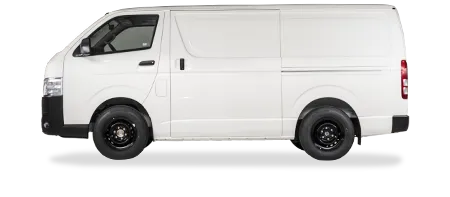
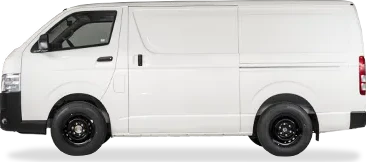
Hiace SLWB gambar betul + kereta jalur model sebaris
- Pengawal: buang gambar warna yang menunjuk folder model lain (Toyota MY guna gambar Hiace panel van untuk SLWB)
- Gambar model dari explore thumbnail bila tiada (Hiace SLWB, Alphard, Vellfire, GR, EV)
- Potong ruang lutsinar semua gambar model; jalur model bergerak sejajar bawah

diff --git a/data.js b/data.js
@@ -1,2 +1,2 @@
 // Dijana oleh scripts/update.mjs — jangan sunting tangan
-window.TOYOTA = {"updatedAt":"2026-11-24","checkedAt":"2026-11-24","source":"https://www.toyota.com.my/en/price-and-model-tools/price-list.html","rebateSource":"https://www.toyota.com.my/en/promotions/monthly-promo.html","rebateMonth":"November 2026","models":[{"id":"vios","name":"Vios","type":"Sedan","url":"https://www.toyota.com.my/en/models/vios.html","cut":"img/cut/vios.webp","grades":[{"name":"Vios 1.5E AT","fuel":"Petrol","price":90600,"rebate":12000,"cols":[{"n":"Spicy Scarlet SE","hex":"#990300","p":0,"img":"img/col/4b4a9737cf.webp"},{"n":"Silver Metallic","hex":"#9da2a4","p":0,"img":"img/col/b7147704f3.webp"},{"n":"Nebula Blue Metallic","hex":"#203079","p":0,"img":"img/col/0c283b9e86.webp"},{"n":"Attitude Black Mica","hex":"#030507","p":0,"img":"img/col/1e3495e214.webp"},{"n":"Platinum White Pearl","hex":"#fcfcfc","p":400,"img":"img/col/bfc42479ec.webp"}]},{"name":"Vios 1.5G AT","fuel":"Petrol","price":96600,"rebate":12000,"cols":[{"n":"Spicy Scarlet SE","hex":"#990300","p":0,"img":"img/col/4b4a9737cf.webp"},{"n":"Silver Metallic","hex":"#9da2a4","p":0,"img":"img/col/b7147704f3.webp"},{"n":"Nebula Blue Metallic","hex":"#203079","p":0,"img":"img/col/0c283b9e86.webp"},{"n":"Attitude Black Mica","hex":"#030507","p":0,"img":"img/col/1e3495e214.webp"},{"n":"Platinum White Pearl","hex":"#fcfcfc","p":400,"img":"img/col/bfc42479ec.webp"}]},{"name":"Vios 1.5 HEV AT","fuel":"HEV","price":103900,"rebate":14000,"cols":[{"n":"Celestite Grey Metallic","hex":"#4c5662","p":0,"img":"img/col/2bb7e400b5.webp"},{"n":"Platinum White Pearl","hex":"#fcfcfc","p":400,"img":"img/col/a50575775a.webp"},{"n":"Spicy Scarlet SE","hex":"#990300","p":0,"img":"img/col/0866fbec1c.webp"},{"n":"Attitude Black","hex":"#030507","p":0,"img":"img/col/4fa600eb33.webp"},{"n":"Silver Metallic","hex":"#9da2a4","p":0,"img":"img/col/40bbe3cd9d.webp"}]},{"name":"Vios 1.5 HEV GR Sport","fuel":"HEV","price":109900,"rebate":12000,"cols":[{"n":"Platinum White Pearl","hex":"#fcfcfc","p":400,"img":"img/col/54372c2760.webp"},{"n":"Spicy Scarlet SE","hex":"#990300","p":0,"img":"img/col/0699dcca2c.webp"},{"n":"Attitude Black","hex":"#030507","p":0,"img":"img/col/95a0ce70e0.webp"},{"n":"2-tone Platinum White Pearl","hex":"#f2f2ee","p":0,"img":"img/col/4cc5cbb57a.webp"},{"n":"2-Tone Spicy Scarlet SE","hex":"#a4120f","p":1500,"img":"img/col/46aabf18aa.webp"}]}]},{"id":"yaris","name":"Yaris","type":"Hatchback","url":"https://www.toyota.com.my/en/models/yaris.html","cut":"img/cut/yaris.webp","grades":[{"name":"Yaris 1.5E AT","fuel":"Petrol","price":90400,"rebate":0,"cols":[{"n":"2-tone Red Mica Metallic","hex":"#7b0010","p":1500,"img":"img/col/66c8577a24.webp"},{"n":"2-tone Platinum White Pearl","hex":"#fcfcfc","p":1800,"img":"img/col/4d18b7256f.webp"},{"n":"Red Mica Metallic","hex":"#7b0010","p":0,"img":"img/col/9729826b19.webp"},{"n":"Silver Metallic","hex":"#9da2a4","p":0,"img":"img/col/b90aa7a7d1.webp"},{"n":"Platinum White Pearl","hex":"#fcfcfc","p":0,"img":"img/col/ac3be6d11a.webp"}]},{"name":"Yaris 1.5G AT","fuel":"Petrol","price":96400,"rebate":0,"cols":[{"n":"2-tone Red Mica Metallic","hex":"#7b0010","p":1500,"img":"img/col/66c8577a24.webp"},{"n":"2-tone Platinum White Pearl","hex":"#fcfcfc","p":1800,"img":"img/col/4d18b7256f.webp"},{"n":"Red Mica Metallic","hex":"#7b0010","p":0,"img":"img/col/9729826b19.webp"},{"n":"Silver Metallic","hex":"#9da2a4","p":0,"img":"img/col/b90aa7a7d1.webp"},{"n":"Platinum White Pearl","hex":"#fcfcfc","p":0,"img":"img/col/ac3be6d11a.webp"}]}]},{"id":"yaris-cross","name":"Yaris Cross","type":"SUV","url":"https://www.toyota.com.my/en/models/yaris-cross-hybrid-electric.html","cut":"img/cut/yaris-cross.webp","grades":[{"name":"Yaris Cross 1.5S","fuel":"Petrol","price":99900,"rebate":3500,"cols":[{"n":"Dark Turquoise","hex":"#091449","p":0,"img":"img/col/bfb4483ed6.webp"},{"n":"Silver Metallic","hex":"#9da2a4","p":0,"img":"img/col/1580b3b50b.webp"},{"n":"Attitude Black","hex":"#030507","p":0,"img":"img/col/e294913737.webp"},{"n":"Spicy Scarlet SE","hex":"#990300","p":0,"img":"img/col/7e94d23eed.webp"},{"n":"Platinum Pearl White","hex":"#fcfcfc","p":400,"img":"img/col/4d84b280a5.webp"}]},{"name":"Yaris Cross 1.5S HEV","fuel":"HEV","price":109900,"rebate":3500,"cols":[{"n":"Dark Turquoise","hex":"#091449","p":0,"img":"img/col/bfb4483ed6.webp"},{"n":"Silver Metallic","hex":"#9da2a4","p":0,"img":"img/col/1580b3b50b.webp"},{"n":"Attitude Black","hex":"#030507","p":0,"img":"img/col/e294913737.webp"},{"n":"Spicy Scarlet SE","hex":"#990300","p":0,"img":"img/col/7e94d23eed.webp"},{"n":"Platinum Pearl White","hex":"#fcfcfc","p":400,"img":"img/col/4d84b280a5.webp"}]}]},{"id":"corolla","name":"Corolla","type":"Sedan","url":"https://www.toyota.com.my/en/models/corolla.html","cut":"img/cut/corolla.webp","grades":[{"name":"Corolla 1.8G","fuel":"Petrol","price":144800,"rebate":18000,"cols":[{"n":"Platinum White Pearl","hex":"#fcfcfc","p":800,"img":"img/col/5c4f0cdb86.webp"},{"n":"Metal Stream Metallic","hex":"#828084","p":0,"img":"img/col/519817aa2d.webp"},{"n":"Attitude Black Mica","hex":"#030507","p":0,"img":"img/col/5622c58e34.webp"},{"n":"Cement Gray Metallic","hex":"#808080","p":0,"img":"img/col/41ef87da90.webp"}]},{"name":"Corolla GR Sport","fuel":"Petrol","price":149800,"rebate":18000,"cols":[{"n":"2-tone Platinum White Pearl","hex":"#fcfcfcd","p":2000,"img":"img/col/9f33b413f5.webp"},{"n":"2-tone Red Mica Metallic","hex":"#7b0010","p":1500,"img":"img/col/b13b3fd4f6.webp"},{"n":"Attitude Black Mica","hex":"#030507","p":0,"img":"img/col/c27060f927.webp"}]}]},{"id":"corolla-cross","name":"Corolla Cross","type":"SUV","url":"https://www.toyota.com.my/en/models/corolla-cross-hybrid-electric.html","cut":"img/cut/corolla-cross.webp","grades":[{"name":"Corolla Cross 1.8V AT","fuel":"Petrol","price":133800,"rebate":13000,"cols":[{"n":"Silver Metallic","hex":"#9da2a4","p":0,"img":"img/col/c2e12495db.webp"},{"n":"Red Mica Metallic","hex":"#7b0010","p":0,"img":"img/col/387aa3bc62.webp"},{"n":"Platinum White Pearl","hex":"#fcfcfc","p":800,"img":"img/col/6db6b41141.webp"},{"n":"Dark Turquoise","hex":"#091449","p":0,"img":"img/col/0ca25237cb.webp"}]},{"name":"Corolla Cross HEV","fuel":"HEV","price":140800,"rebate":13000,"cols":[{"n":"Celestite Grey Metallic","hex":"#4c5662","p":0,"img":"img/col/25d8b36c8e.webp"},{"n":"Silver Metallic","hex":"#9da2a4","p":0,"img":"img/col/a2435030b9.webp"},{"n":"Red Mica Metallic","hex":"#7b0010","p":0,"img":"img/col/0cf5506db1.webp"},{"n":"Platinum White Pearl","hex":"#fcfcfc","p":800,"img":"img/col/ca1aff7c8c.webp"},{"n":"Dark Turquoise","hex":"#091449","p":0,"img":"img/col/80c20e632b.webp"}]},{"name":"Corolla Cross HEV GR Sport","fuel":"HEV","price":148800,"rebate":13000,"cols":[{"n":"2-tone Platinum White Pearl","hex":"#fcfcfc","p":2000,"img":"img/col/d8a5908136.webp"},{"n":"2-tone Dark Turquoise","hex":"#171948","p":1500,"img":"img/col/93e8351c5b.webp"},{"n":"2-tone Red Mica Metallic","hex":"#7b0010","p":1500,"img":"img/col/315dd36c8e.webp"}]}]},{"id":"camry","name":"Camry","type":"Sedan","url":"https://www.toyota.com.my/en/models/camry-hybrid-electric.html","cut":"img/cut/camry.webp","grades":[{"name":"Camry 2.5V AT","fuel":"Petrol","price":221800,"rebate":20000,"cols":[{"n":"Platinum White Pearl","hex":"#fcfcfc","p":800,"img":"img/col/5cde194081.webp"},{"n":"Emotional Red II","hex":"#740001","p":800,"img":"img/col/4b418b5fa0.webp"},{"n":"Cement Gray Metallic","hex":"#808080","p":0,"img":"img/col/34d98b3896.webp"},{"n":"Precious Metal","hex":"#545656","p":0,"img":"img/col/16dbb99437.webp"},{"n":"Attitude Black Mica","hex":"#030507","p":0,"img":"img/col/f5382d19c4.webp"},{"n":"Dark Blue Mica","hex":"#202649","p":0,"img":"img/col/60979581a2.webp"}]},{"name":"Camry 2.5 HEV","fuel":"HEV","price":248800,"rebate":12000,"cols":[{"n":"Platinum White Pearl","hex":"#fcfcfc","p":800,"img":"img/col/d35773af7b.webp"},{"n":"Emotional Red II","hex":"#740001","p":800,"img":"img/col/de23f9276b.webp"},{"n":"Cement Gray Metallic","hex":"#808080","p":0,"img":"img/col/51438deebb.webp"},{"n":"Precious Metal","hex":"#545656","p":0,"img":"img/col/d7c1048fef.webp"},{"n":"Attitude Black Mica","hex":"#030507","p":0,"img":"img/col/a471114a0f.webp"},{"n":"Dark Blue Mica","hex":"#202649","p":0,"img":"img/col/f743075f0b.webp"}]}]},{"id":"veloz","name":"Veloz","type":"MPV","url":"https://www.toyota.com.my/en/models/veloz.html","cut":"img/cut/veloz.webp","grades":[{"name":"Veloz 1.5 AT","fuel":"Petrol","price":95000,"rebate":3000,"cols":[{"n":"Blue Metallic with Black Roof","hex":"#0b0d10","p":1300,"img":"img/col/d256ccb5bc.webp"},{"n":"Silver Metallic with Black Roof","hex":"#9da2a4","p":1300,"img":"img/col/aa7fcf63eb.webp"},{"n":"Metallic Bluish Black","hex":"#000000","p":0,"img":"img/col/2d6d91f538.webp"},{"n":"Red Metallic","hex":"#4f000a","p":0,"img":"img/col/5ec750fa47.webp"},{"n":"White","hex":"#d5d8cf","p":0,"img":"img/col/5c36769894.webp"}]}]},{"id":"zenix","name":"Innova Zenix","type":"MPV","url":"https://www.toyota.com.my/en/models/zenix.html","cut":"img/cut/zenix.webp","grades":[{"name":"Innova Zenix 2.0V","fuel":"Petrol","price":165000,"rebate":10000,"cols":[{"n":"Grey Metallic","hex":"#333538","p":0,"img":"img/col/9b73cab6d5.webp"},{"n":"Platinum White Pearl","hex":"#fcfcfc","p":1000,"img":"img/col/0fca547ef6.webp"},{"n":"Attitude Black Mica","hex":"#030507","p":0,"img":"img/col/4fc27eb91c.webp"},{"n":"Silver Metallic","hex":"#84888c","p":0,"img":"img/col/5b9211c612.webp"}]},{"name":"Innova Zenix 2.0 HEV","fuel":"HEV","price":202000,"rebate":11000,"cols":[{"n":"Platinum White Pearl","hex":"#fcfcfc","p":1000,"img":"img/col/1e8a5b3a26.webp"},{"n":"Grey Metallic","hex":"#333538","p":0,"img":"img/col/d7a676d8b7.webp"},{"n":"Attitude Black Mica","hex":"#030507","p":0,"img":"img/col/a70e950afa.webp"},{"n":"Silver Metallic","hex":"#84888c","p":0,"img":"img/col/54d344cb5e.webp"}]}]},{"id":"fortuner","name":"Fortuner","type":"SUV","url":"https://www.toyota.com.my/en/models/fortuner.html","cut":"img/cut/fortuner.webp","grades":[{"name":"Fortuner 2.4 AT 4WD","fuel":"Diesel","price":195880,"rebate":11000,"cols":[{"n":"Attitude Black Mica","hex":"#030507","p":0,"img":"img/col/d8054f4c2d.webp"},{"n":"Super White II","hex":"#e3e4e0","p":0,"img":"img/col/b18598feec.webp"},{"n":"Silver Metallic","hex":"#9da2a4","p":0,"img":"img/col/3f7a786d72.webp"},{"n":"Medium Silver Metallic","hex":"#6a7376","p":0,"img":"img/col/0cbcbf0729.webp"},{"n":"Phantom Brown Metallic","hex":"#4a302e","p":0,"img":"img/col/828068dd62.webp"},{"n":"Bronze Mica Metallic","hex":"#4e4a43","p":0,"img":"img/col/cb43107338.webp"}]},{"name":"Fortuner 2.7 SRZ AT 4WD","fuel":"Petrol","price":202880,"rebate":11000,"cols":[{"n":"Attitude Black Mica","hex":"#030507","p":0,"img":"img/col/d8054f4c2d.webp"},{"n":"Super White II","hex":"#e3e4e0","p":0,"img":"img/col/b18598feec.webp"},{"n":"Silver Metallic","hex":"#9da2a4","p":0,"img":"img/col/3f7a786d72.webp"},{"n":"Medium Silver Metallic","hex":"#6a7376","p":0,"img":"img/col/0cbcbf0729.webp"},{"n":"Phantom Brown Metallic","hex":"#4a302e","p":0,"img":"img/col/828068dd62.webp"},{"n":"Bronze Mica Metallic","hex":"#4e4a43","p":0,"img":"img/col/cb43107338.webp"}]},{"name":"Fortuner 2.8 VRZ AT 4WD","fuel":"Diesel","price":241880,"rebate":11000,"cols":[{"n":"Attitude Black Mica","hex":"#030507","p":0,"img":"img/col/d8054f4c2d.webp"},{"n":"Super White II","hex":"#e3e4e0","p":0,"img":"img/col/b18598feec.webp"},{"n":"Silver Metallic","hex":"#9da2a4","p":0,"img":"img/col/3f7a786d72.webp"},{"n":"Medium Silver Metallic","hex":"#6a7376","p":0,"img":"img/col/0cbcbf0729.webp"},{"n":"Phantom Brown Metallic","hex":"#4a302e","p":0,"img":"img/col/828068dd62.webp"},{"n":"Super White II with Black Roof","hex":"#f2f2ee","p":1500,"img":"img/col/7f835db766.webp"},{"n":"Bronze Mica Metallic with Black Roof","hex":"#0b0d10","p":1500,"img":"img/col/6bedb87452.webp"}]}]},{"id":"hilux","name":"Hilux","type":"Pickup","url":"https://www.toyota.com.my/en/models/hilux.html","cut":"img/cut/hilux.webp","grades":[{"name":"Hilux Single Cab 2.4 MT 4WD","fuel":"Diesel","price":104880,"rebate":9000,"cols":[{"n":"Solid White","hex":"#d5d8cf","p":0,"img":"img/col/6f7382e367.webp"}]},{"name":"Hilux Double Cab 2.4E MT 4WD","fuel":"Diesel","price":117880,"rebate":14000,"cols":[{"n":"Bronze Mica Metallic","hex":"#4e4a43","p":0,"img":"img/col/153c8b6d6d.webp"},{"n":"Phantom Brown Metallic","hex":"#4a302e","p":0,"img":"img/col/ac5084b2b6.webp"},{"n":"Crimson Spark Red Metallic","hex":"#740013","p":0,"img":"img/col/d6794af8c3.webp"},{"n":"Attitude Black Mica","hex":"#030507","p":0,"img":"img/col/6a92b4a638.webp"},{"n":"Super White II","hex":"#e3e4e0","p":0,"img":"img/col/dbb077a5a7.webp"},{"n":"Medium Silver Metallic","hex":"#6a7376","p":0,"img":"img/col/9caffc57e9.webp"},{"n":"Silver Metallic","hex":"#9da2a4","p":0,"img":"img/col/21ede8c09a.webp"}]},{"name":"Hilux Double Cab 2.4E AT 4WD","fuel":"Diesel","price":119880,"rebate":14000,"cols":[{"n":"Bronze Mica Metallic","hex":"#4e4a43","p":0,"img":"img/col/153c8b6d6d.webp"},{"n":"Phantom Brown Metallic","hex":"#4a302e","p":0,"img":"img/col/ac5084b2b6.webp"},{"n":"Crimson Spark Red Metallic","hex":"#740013","p":0,"img":"img/col/d6794af8c3.webp"},{"n":"Attitude Black Mica","hex":"#030507","p":0,"img":"img/col/6a92b4a638.webp"},{"n":"Super White II","hex":"#e3e4e0","p":0,"img":"img/col/dbb077a5a7.webp"},{"n":"Medium Silver Metallic","hex":"#6a7376","p":0,"img":"img/col/9caffc57e9.webp"},{"n":"Silver Metallic","hex":"#9da2a4","p":0,"img":"img/col/21ede8c09a.webp"}]},{"name":"Hilux Double Cab 2.4V AT 4WD","fuel":"Diesel","price":149580,"rebate":14000,"cols":[{"n":"Bronze Mica Metallic","hex":"#4e4a43","p":0,"img":"img/col/153c8b6d6d.webp"},{"n":"Phantom Brown Metallic","hex":"#4a302e","p":0,"img":"img/col/ac5084b2b6.webp"},{"n":"Crimson Spark Red Metallic","hex":"#740013","p":0,"img":"img/col/d6794af8c3.webp"},{"n":"Attitude Black Mica","hex":"#030507","p":0,"img":"img/col/6a92b4a638.webp"},{"n":"Super White II","hex":"#e3e4e0","p":0,"img":"img/col/dbb077a5a7.webp"},{"n":"Medium Silver Metallic","hex":"#6a7376","p":0,"img":"img/col/9caffc57e9.webp"},{"n":"Silver Metallic","hex":"#9da2a4","p":0,"img":"img/col/21ede8c09a.webp"}]},{"name":"Hilux Double Cab 2.8 Rogue AT 4WD","fuel":"Diesel","price":163080,"rebate":14000,"cols":[{"n":"Bronze Mica Metallic","hex":"#4e4a43","p":0,"img":"img/col/153c8b6d6d.webp"},{"n":"Phantom Brown Metallic","hex":"#4a302e","p":0,"img":"img/col/ac5084b2b6.webp"},{"n":"Crimson Spark Red Metallic","hex":"#740013","p":0,"img":"img/col/d6794af8c3.webp"},{"n":"Attitude Black Mica","hex":"#030507","p":0,"img":"img/col/6a92b4a638.webp"},{"n":"Super White II","hex":"#e3e4e0","p":0,"img":"img/col/dbb077a5a7.webp"},{"n":"Medium Silver Metallic","hex":"#6a7376","p":0,"img":"img/col/9caffc57e9.webp"},{"n":"Silver Metallic","hex":"#9da2a4","p":0,"img":"img/col/21ede8c09a.webp"}]},{"name":"Hilux GR Sport","fuel":"Diesel","price":173280,"rebate":14000,"cols":[{"n":"Super White II","hex":"#e3e4e0","p":0,"img":"img/col/32a4330258.webp"},{"n":"Crimson Spark Red Metallic","hex":"#740013","p":0,"img":"img/col/149c41cc64.webp"},{"n":"Attitude Black Mica","hex":"#030507","p":0,"img":"img/col/2a8ee67d18.webp"}]},{"name":"Hilux D/CAB BEV","fuel":"EV","price":226300,"rebate":0,"cols":[{"n":"Ash","hex":"#50505a","p":0,"img":"img/col/9cdbcf2f63.webp"},{"n":"Platinum White Pearl","hex":"#fcfcfc","p":800,"img":"img/col/a024e52a35.webp"},{"n":"Super White 2","hex":"#e3e4e0","p":0,"img":"img/col/31fad78abb.webp"}]}]},{"id":"hiace","name":"Hiace","type":"Van","url":"https://www.toyota.com.my/en/models/hiace.html","cut":"img/cut/hiace.webp","grades":[{"name":"Hiace Panel Van 3.0 Turbo Diesel","fuel":"Diesel","price":127800,"rebate":0,"cols":[{"n":"Solid White","hex":"#d5d8cf","p":0,"img":"img/col/449754ec87.webp"}]}]},{"id":"hiace-slwb","name":"Hiace SLWB","type":"Van","url":"https://www.toyota.com.my/en/models/hiace-slwb.html","cut":"img/col/449754ec87.webp","grades":[{"name":"Hiace SLWB 2.8 Turbo Diesel","fuel":"Diesel","price":172000,"rebate":0,"cols":[{"n":"Solid White","hex":"#d5d8cf","p":0,"img":"img/col/449754ec87.webp"}]}]},{"id":"harrier","name":"Harrier","type":"SUV","url":"https://www.toyota.com.my/en/models/harrier-hybrid-electric.html","cut":"img/cut/harrier.webp","grades":[{"name":"Harrier 2.5 HEV","fuel":"HEV","price":289000,"rebate":0,"cols":[{"n":"Platinum White Pearl","hex":"#fcfcfc","p":800,"img":"img/col/6fdc4cada0.webp"},{"n":"Grey Metallic","hex":"#333538","p":0,"img":"img/col/c480f452a2.webp"},{"n":"Precious Black","hex":"#08080A","p":800,"img":"img/col/9d808e59f3.webp"}]}]},{"id":"bz4x","name":"bZ4X","type":"SUV","url":"https://www.toyota.com.my/en/models/bz4x.html","cut":"img/col/8f0329cfd6.webp","grades":[{"name":"bZ4X","fuel":"EV","price":220000,"rebate":0,"cols":[{"n":"Precious Metal","hex":"#545656","p":0,"img":"img/col/8f0329cfd6.webp"},{"n":"Attitude Black MC.","hex":"#030507","p":0,"img":"img/col/82898817e4.webp"},{"n":"Platinum White Pearl MC.","hex":"#fcfcfc","p":800,"img":"img/col/ad5bfd4488.webp"},{"n":"Emotional Red 2","hex":"#740001","p":0,"img":"img/col/67021e4ffa.webp"},{"n":"DK. Blue MC.","hex":"#202649","p":0,"img":"img/col/76cef5386d.webp"}]}]},{"id":"urban-cruiser","name":"Urban Cruiser","type":"SUV","url":"https://www.toyota.com.my/en/models/urban-cruiser.html","cut":"img/col/22487d6a0b.webp","grades":[{"name":"Urban Cruiser","fuel":"EV","price":198000,"rebate":0,"cols":[{"n":"Land Breeze Green","hex":"#656656","p":0,"img":"img/col/22487d6a0b.webp"},{"n":"Grandeur Grey","hex":"#88898d","p":0,"img":"img/col/07ab50ac0a.webp"},{"n":"Pearl Arctic White","hex":"#fbfbf9","p":0,"img":"img/col/8a52fefacd.webp"},{"n":"Pearl Bluish Black","hex":"#02252b","p":0,"img":"img/col/7e4d87fa6c.webp"}]}]},{"id":"alphard","name":"Alphard","type":"MPV","url":"https://www.toyota.com.my/en/models/alphard.html","cut":"img/col/52770a1f32.webp","grades":[{"name":"Alphard 2.4T Executive Lounge","fuel":"Petrol","price":548000,"rebate":0,"cols":[{"n":"Platinum White Pearl","hex":"#fcfcfc","p":0,"img":"img/col/52770a1f32.webp"},{"n":"Precious Metal","hex":"#545656","p":0,"img":"img/col/f86c349d4b.webp"},{"n":"Neutral Black","hex":"#020203","p":0,"img":"img/col/9ddb2a900a.webp"},{"n":"Precious Leo-Blond","hex":"#c7b2a1","p":0,"img":"img/col/f43ffac54c.webp"}]}]},{"id":"vellfire","name":"Vellfire","type":"MPV","url":"https://www.toyota.com.my/en/models/vellfire.html","cut":"img/col/eefe11539a.webp","grades":[{"name":"Vellfire 2.5","fuel":"Petrol","price":448000,"rebate":0,"cols":[{"n":"Neutral Black","hex":"#020203","p":0,"img":"img/col/eefe11539a.webp"},{"n":"Precious Metal","hex":"#545656","p":0,"img":"img/col/c681abee7e.webp"},{"n":"Platinum White Pearl","hex":"#fcfcfc","p":0,"img":"img/col/2cf066789e.webp"}]},{"name":"Vellfire 2.5 HEV AT Executive Lounge","fuel":"HEV","price":549900,"rebate":0,"cols":[{"n":"Platinum White Pearl","hex":"#fcfcfc","p":0,"img":"img/col/dfb11cc529.webp"},{"n":"Neutral Black","hex":"#020203","p":0,"img":"img/col/993f63e2e7.webp"},{"n":"Precious Metal","hex":"#545656","p":0,"img":"img/col/f7b4c3f4f2.webp"}]}]},{"id":"gr86","name":"GR86","type":"Coupe","url":"https://www.toyota.com.my/en/models/gr86.html","cut":"img/col/c6a787e1b0.webp","grades":[{"name":"GR86 M/T","fuel":"Petrol","price":296000,"rebate":0,"cols":[{"n":"Ignition Red","hex":"#e11e26","p":0,"img":"img/col/c6a787e1b0.webp"},{"n":"Crystal White Pearl","hex":"#f5f5f5","p":0,"img":"img/col/56b7864cd6.webp"},{"n":"Crystal Black Silica","hex":"#101010","p":0,"img":"img/col/th-593f0c9d45.webp","src":"th"},{"n":"Magnetite Gray Metallic","hex":"#5f5d50","p":0,"img":"img/col/th-4f32884e92.webp","src":"th"}]},{"name":"GR86 A/T","fuel":"Petrol","price":306000,"rebate":0,"cols":[{"n":"Ignition Red","hex":"#e11e26","p":0,"img":"img/col/c6a787e1b0.webp"},{"n":"Crystal White Pearl","hex":"#f5f5f5","p":0,"img":"img/col/56b7864cd6.webp"},{"n":"Crystal Black Silica","hex":"#101010","p":0,"img":"img/col/th-593f0c9d45.webp","src":"th"},{"n":"Magnetite Gray Metallic","hex":"#5f5d50","p":0,"img":"img/col/th-4f32884e92.webp","src":"th"}]}]},{"id":"gr-yaris","name":"GR Yaris","type":"Hatchback","url":"https://www.toyota.com.my/en/models/gr-yaris.html","cut":"img/col/th-8960135b6a.webp","grades":[{"name":"GR Yaris M/T","fuel":"Petrol","price":315600,"rebate":0,"cols":[{"n":"Platinum White Pearl Mica","hex":"#f2f2ee","p":0,"img":"img/col/th-8960135b6a.webp","src":"th","illus":true},{"n":"Emotional Red 2","hex":"#a4120f","p":0,"img":"img/col/th-3b6bccb18c.webp","src":"th"},{"n":"Precious Black","hex":"#0b0d10","p":0,"img":"img/col/th-d0aabf92df.webp","src":"th"},{"n":"Precious Metal","hex":"#cccccc","p":0,"img":"img/col/th-4caff9fa1a.webp","src":"th"}]},{"name":"GR Yaris A/T","fuel":"Petrol","price":325600,"rebate":0,"cols":[{"n":"Platinum White Pearl Mica","hex":"#f2f2ee","p":0,"img":"img/col/th-8960135b6a.webp","src":"th","illus":true},{"n":"Emotional Red 2","hex":"#a4120f","p":0,"img":"img/col/th-3b6bccb18c.webp","src":"th"},{"n":"Precious Black","hex":"#0b0d10","p":0,"img":"img/col/th-d0aabf92df.webp","src":"th"},{"n":"Precious Metal","hex":"#cccccc","p":0,"img":"img/col/th-4caff9fa1a.webp","src":"th"}]}]},{"id":"gr-corolla","name":"GR Corolla","type":"Hatchback","url":"https://www.toyota.com.my/en/models/gr-corolla.html","cut":"img/col/th-1380cae14c.webp","grades":[{"name":"GR Corolla M/T","fuel":"Petrol","price":368950,"rebate":0,"cols":[{"n":"Precious Metal","hex":"#cccccc","p":0,"img":"img/col/th-1380cae14c.webp","src":"th"},{"n":"Super White 2","hex":"#f2f2ee","p":0,"img":"img/col/th-de98863223.webp","src":"th"},{"n":"Emotional Red 2","hex":"#a4120f","p":0,"img":"img/col/th-edfb5e2419.webp","src":"th"},{"n":"Black","hex":"#0b0d10","p":0,"img":"img/col/th-7f08920220.webp","src":"th"}]},{"name":"GR Corolla A/T","fuel":"Petrol","price":378950,"rebate":0,"cols":[{"n":"Precious Metal","hex":"#cccccc","p":0,"img":"img/col/th-1380cae14c.webp","src":"th"},{"n":"Super White 2","hex":"#f2f2ee","p":0,"img":"img/col/th-de98863223.webp","src":"th"},{"n":"Emotional Red 2","hex":"#a4120f","p":0,"img":"img/col/th-edfb5e2419.webp","src":"th"},{"n":"Black","hex":"#0b0d10","p":0,"img":"img/col/th-7f08920220.webp","src":"th"}]}]}]};
+window.TOYOTA = {"updatedAt":"2026-11-25","checkedAt":"2026-11-25","source":"https://www.toyota.com.my/en/price-and-model-tools/price-list.html","rebateSource":"https://www.toyota.com.my/en/promotions/monthly-promo.html","rebateMonth":"November 2026","models":[{"id":"vios","name":"Vios","type":"Sedan","url":"https://www.toyota.com.my/en/models/vios.html","cut":"img/cut/vios.webp","grades":[{"name":"Vios 1.5E AT","fuel":"Petrol","price":90600,"rebate":12000,"cols":[{"n":"Spicy Scarlet SE","hex":"#990300","p":0,"img":"img/col/4b4a9737cf.webp"},{"n":"Silver Metallic","hex":"#9da2a4","p":0,"img":"img/col/b7147704f3.webp"},{"n":"Nebula Blue Metallic","hex":"#203079","p":0,"img":"img/col/0c283b9e86.webp"},{"n":"Attitude Black Mica","hex":"#030507","p":0,"img":"img/col/1e3495e214.webp"},{"n":"Platinum White Pearl","hex":"#fcfcfc","p":400,"img":"img/col/bfc42479ec.webp"}]},{"name":"Vios 1.5G AT","fuel":"Petrol","price":96600,"rebate":12000,"cols":[{"n":"Spicy Scarlet SE","hex":"#990300","p":0,"img":"img/col/4b4a9737cf.webp"},{"n":"Silver Metallic","hex":"#9da2a4","p":0,"img":"img/col/b7147704f3.webp"},{"n":"Nebula Blue Metallic","hex":"#203079","p":0,"img":"img/col/0c283b9e86.webp"},{"n":"Attitude Black Mica","hex":"#030507","p":0,"img":"img/col/1e3495e214.webp"},{"n":"Platinum White Pearl","hex":"#fcfcfc","p":400,"img":"img/col/bfc42479ec.webp"}]},{"name":"Vios 1.5 HEV AT","fuel":"HEV","price":103900,"rebate":14000,"cols":[{"n":"Celestite Grey Metallic","hex":"#4c5662","p":0,"img":"img/col/2bb7e400b5.webp"},{"n":"Platinum White Pearl","hex":"#fcfcfc","p":400,"img":"img/col/a50575775a.webp"},{"n":"Spicy Scarlet SE","hex":"#990300","p":0,"img":"img/col/0866fbec1c.webp"},{"n":"Attitude Black","hex":"#030507","p":0,"img":"img/col/4fa600eb33.webp"},{"n":"Silver Metallic","hex":"#9da2a4","p":0,"img":"img/col/40bbe3cd9d.webp"}]},{"name":"Vios 1.5 HEV GR Sport","fuel":"HEV","price":109900,"rebate":12000,"cols":[{"n":"Platinum White Pearl","hex":"#fcfcfc","p":400,"img":"img/col/54372c2760.webp"},{"n":"Spicy Scarlet SE","hex":"#990300","p":0,"img":"img/col/0699dcca2c.webp"},{"n":"Attitude Black","hex":"#030507","p":0,"img":"img/col/95a0ce70e0.webp"},{"n":"2-tone Platinum White Pearl","hex":"#f2f2ee","p":0,"img":"img/col/4cc5cbb57a.webp"},{"n":"2-Tone Spicy Scarlet SE","hex":"#a4120f","p":1500,"img":"img/col/46aabf18aa.webp"}]}]},{"id":"yaris","name":"Yaris","type":"Hatchback","url":"https://www.toyota.com.my/en/models/yaris.html","cut":"img/cut/yaris.webp","grades":[{"name":"Yaris 1.5E AT","fuel":"Petrol","price":90400,"rebate":0,"cols":[{"n":"2-tone Red Mica Metallic","hex":"#7b0010","p":1500,"img":"img/col/66c8577a24.webp"},{"n":"2-tone Platinum White Pearl","hex":"#fcfcfc","p":1800,"img":"img/col/4d18b7256f.webp"},{"n":"Red Mica Metallic","hex":"#7b0010","p":0,"img":"img/col/9729826b19.webp"},{"n":"Silver Metallic","hex":"#9da2a4","p":0,"img":"img/col/b90aa7a7d1.webp"},{"n":"Platinum White Pearl","hex":"#fcfcfc","p":0,"img":"img/col/ac3be6d11a.webp"}]},{"name":"Yaris 1.5G AT","fuel":"Petrol","price":96400,"rebate":0,"cols":[{"n":"2-tone Red Mica Metallic","hex":"#7b0010","p":1500,"img":"img/col/66c8577a24.webp"},{"n":"2-tone Platinum White Pearl","hex":"#fcfcfc","p":1800,"img":"img/col/4d18b7256f.webp"},{"n":"Red Mica Metallic","hex":"#7b0010","p":0,"img":"img/col/9729826b19.webp"},{"n":"Silver Metallic","hex":"#9da2a4","p":0,"img":"img/col/b90aa7a7d1.webp"},{"n":"Platinum White Pearl","hex":"#fcfcfc","p":0,"img":"img/col/ac3be6d11a.webp"}]}]},{"id":"yaris-cross","name":"Yaris Cross","type":"SUV","url":"https://www.toyota.com.my/en/models/yaris-cross-hybrid-electric.html","cut":"img/cut/yaris-cross.webp","grades":[{"name":"Yaris Cross 1.5S","fuel":"Petrol","price":99900,"rebate":3500,"cols":[{"n":"Dark Turquoise","hex":"#091449","p":0,"img":"img/col/bfb4483ed6.webp"},{"n":"Silver Metallic","hex":"#9da2a4","p":0,"img":"img/col/1580b3b50b.webp"},{"n":"Attitude Black","hex":"#030507","p":0,"img":"img/col/e294913737.webp"},{"n":"Spicy Scarlet SE","hex":"#990300","p":0,"img":"img/col/7e94d23eed.webp"},{"n":"Platinum Pearl White","hex":"#fcfcfc","p":400,"img":"img/col/4d84b280a5.webp"}]},{"name":"Yaris Cross 1.5S HEV","fuel":"HEV","price":109900,"rebate":3500,"cols":[{"n":"Dark Turquoise","hex":"#091449","p":0,"img":"img/col/bfb4483ed6.webp"},{"n":"Silver Metallic","hex":"#9da2a4","p":0,"img":"img/col/1580b3b50b.webp"},{"n":"Attitude Black","hex":"#030507","p":0,"img":"img/col/e294913737.webp"},{"n":"Spicy Scarlet SE","hex":"#990300","p":0,"img":"img/col/7e94d23eed.webp"},{"n":"Platinum Pearl White","hex":"#fcfcfc","p":400,"img":"img/col/4d84b280a5.webp"}]}]},{"id":"corolla","name":"Corolla","type":"Sedan","url":"https://www.toyota.com.my/en/models/corolla.html","cut":"img/cut/corolla.webp","grades":[{"name":"Corolla 1.8G","fuel":"Petrol","price":144800,"rebate":18000,"cols":[{"n":"Platinum White Pearl","hex":"#fcfcfc","p":800,"img":"img/col/5c4f0cdb86.webp"},{"n":"Metal Stream Metallic","hex":"#828084","p":0,"img":"img/col/519817aa2d.webp"},{"n":"Attitude Black Mica","hex":"#030507","p":0,"img":"img/col/5622c58e34.webp"},{"n":"Cement Gray Metallic","hex":"#808080","p":0,"img":"img/col/41ef87da90.webp"}]},{"name":"Corolla GR Sport","fuel":"Petrol","price":149800,"rebate":18000,"cols":[{"n":"2-tone Platinum White Pearl","hex":"#fcfcfcd","p":2000,"img":"img/col/9f33b413f5.webp"},{"n":"2-tone Red Mica Metallic","hex":"#7b0010","p":1500,"img":"img/col/b13b3fd4f6.webp"},{"n":"Attitude Black Mica","hex":"#030507","p":0,"img":"img/col/c27060f927.webp"}]}]},{"id":"corolla-cross","name":"Corolla Cross","type":"SUV","url":"https://www.toyota.com.my/en/models/corolla-cross-hybrid-electric.html","cut":"img/cut/corolla-cross.webp","grades":[{"name":"Corolla Cross 1.8V AT","fuel":"Petrol","price":133800,"rebate":13000,"cols":[{"n":"Silver Metallic","hex":"#9da2a4","p":0,"img":"img/col/c2e12495db.webp"},{"n":"Red Mica Metallic","hex":"#7b0010","p":0,"img":"img/col/387aa3bc62.webp"},{"n":"Platinum White Pearl","hex":"#fcfcfc","p":800,"img":"img/col/6db6b41141.webp"},{"n":"Dark Turquoise","hex":"#091449","p":0,"img":"img/col/0ca25237cb.webp"}]},{"name":"Corolla Cross HEV","fuel":"HEV","price":140800,"rebate":13000,"cols":[{"n":"Celestite Grey Metallic","hex":"#4c5662","p":0,"img":"img/col/25d8b36c8e.webp"},{"n":"Silver Metallic","hex":"#9da2a4","p":0,"img":"img/col/a2435030b9.webp"},{"n":"Red Mica Metallic","hex":"#7b0010","p":0,"img":"img/col/0cf5506db1.webp"},{"n":"Platinum White Pearl","hex":"#fcfcfc","p":800,"img":"img/col/ca1aff7c8c.webp"},{"n":"Dark Turquoise","hex":"#091449","p":0,"img":"img/col/80c20e632b.webp"}]},{"name":"Corolla Cross HEV GR Sport","fuel":"HEV","price":148800,"rebate":13000,"cols":[{"n":"2-tone Platinum White Pearl","hex":"#fcfcfc","p":2000,"img":"img/col/d8a5908136.webp"},{"n":"2-tone Dark Turquoise","hex":"#171948","p":1500,"img":"img/col/93e8351c5b.webp"},{"n":"2-tone Red Mica Metallic","hex":"#7b0010","p":1500,"img":"img/col/315dd36c8e.webp"}]}]},{"id":"camry","name":"Camry","type":"Sedan","url":"https://www.toyota.com.my/en/models/camry-hybrid-electric.html","cut":"img/cut/camry.webp","grades":[{"name":"Camry 2.5V AT","fuel":"Petrol","price":221800,"rebate":20000,"cols":[{"n":"Platinum White Pearl","hex":"#fcfcfc","p":800,"img":"img/col/5cde194081.webp"},{"n":"Emotional Red II","hex":"#740001","p":800,"img":"img/col/4b418b5fa0.webp"},{"n":"Cement Gray Metallic","hex":"#808080","p":0,"img":"img/col/34d98b3896.webp"},{"n":"Precious Metal","hex":"#545656","p":0,"img":"img/col/16dbb99437.webp"},{"n":"Attitude Black Mica","hex":"#030507","p":0,"img":"img/col/f5382d19c4.webp"},{"n":"Dark Blue Mica","hex":"#202649","p":0,"img":"img/col/60979581a2.webp"}]},{"name":"Camry 2.5 HEV","fuel":"HEV","price":248800,"rebate":12000,"cols":[{"n":"Platinum White Pearl","hex":"#fcfcfc","p":800,"img":"img/col/d35773af7b.webp"},{"n":"Emotional Red II","hex":"#740001","p":800,"img":"img/col/de23f9276b.webp"},{"n":"Cement Gray Metallic","hex":"#808080","p":0,"img":"img/col/51438deebb.webp"},{"n":"Precious Metal","hex":"#545656","p":0,"img":"img/col/d7c1048fef.webp"},{"n":"Attitude Black Mica","hex":"#030507","p":0,"img":"img/col/a471114a0f.webp"},{"n":"Dark Blue Mica","hex":"#202649","p":0,"img":"img/col/f743075f0b.webp"}]}]},{"id":"veloz","name":"Veloz","type":"MPV","url":"https://www.toyota.com.my/en/models/veloz.html","cut":"img/cut/veloz.webp","grades":[{"name":"Veloz 1.5 AT","fuel":"Petrol","price":95000,"rebate":3000,"cols":[{"n":"Blue Metallic with Black Roof","hex":"#0b0d10","p":1300,"img":"img/col/d256ccb5bc.webp"},{"n":"Silver Metallic with Black Roof","hex":"#9da2a4","p":1300,"img":"img/col/aa7fcf63eb.webp"},{"n":"Metallic Bluish Black","hex":"#000000","p":0,"img":"img/col/2d6d91f538.webp"},{"n":"Red Metallic","hex":"#4f000a","p":0,"img":"img/col/5ec750fa47.webp"},{"n":"White","hex":"#d5d8cf","p":0,"img":"img/col/5c36769894.webp"}]}]},{"id":"zenix","name":"Innova Zenix","type":"MPV","url":"https://www.toyota.com.my/en/models/zenix.html","cut":"img/cut/zenix.webp","grades":[{"name":"Innova Zenix 2.0V","fuel":"Petrol","price":165000,"rebate":10000,"cols":[{"n":"Grey Metallic","hex":"#333538","p":0,"img":"img/col/9b73cab6d5.webp"},{"n":"Platinum White Pearl","hex":"#fcfcfc","p":1000,"img":"img/col/0fca547ef6.webp"},{"n":"Attitude Black Mica","hex":"#030507","p":0,"img":"img/col/4fc27eb91c.webp"},{"n":"Silver Metallic","hex":"#84888c","p":0,"img":"img/col/5b9211c612.webp"}]},{"name":"Innova Zenix 2.0 HEV","fuel":"HEV","price":202000,"rebate":11000,"cols":[{"n":"Platinum White Pearl","hex":"#fcfcfc","p":1000,"img":"img/col/1e8a5b3a26.webp"},{"n":"Grey Metallic","hex":"#333538","p":0,"img":"img/col/d7a676d8b7.webp"},{"n":"Attitude Black Mica","hex":"#030507","p":0,"img":"img/col/a70e950afa.webp"},{"n":"Silver Metallic","hex":"#84888c","p":0,"img":"img/col/54d344cb5e.webp"}]}]},{"id":"fortuner","name":"Fortuner","type":"SUV","url":"https://www.toyota.com.my/en/models/fortuner.html","cut":"img/cut/fortuner.webp","grades":[{"name":"Fortuner 2.4 AT 4WD","fuel":"Diesel","price":195880,"rebate":11000,"cols":[{"n":"Attitude Black Mica","hex":"#030507","p":0,"img":"img/col/d8054f4c2d.webp"},{"n":"Super White II","hex":"#e3e4e0","p":0,"img":"img/col/b18598feec.webp"},{"n":"Silver Metallic","hex":"#9da2a4","p":0,"img":"img/col/3f7a786d72.webp"},{"n":"Medium Silver Metallic","hex":"#6a7376","p":0,"img":"img/col/0cbcbf0729.webp"},{"n":"Phantom Brown Metallic","hex":"#4a302e","p":0,"img":"img/col/828068dd62.webp"},{"n":"Bronze Mica Metallic","hex":"#4e4a43","p":0,"img":"img/col/cb43107338.webp"}]},{"name":"Fortuner 2.7 SRZ AT 4WD","fuel":"Petrol","price":202880,"rebate":11000,"cols":[{"n":"Attitude Black Mica","hex":"#030507","p":0,"img":"img/col/d8054f4c2d.webp"},{"n":"Super White II","hex":"#e3e4e0","p":0,"img":"img/col/b18598feec.webp"},{"n":"Silver Metallic","hex":"#9da2a4","p":0,"img":"img/col/3f7a786d72.webp"},{"n":"Medium Silver Metallic","hex":"#6a7376","p":0,"img":"img/col/0cbcbf0729.webp"},{"n":"Phantom Brown Metallic","hex":"#4a302e","p":0,"img":"img/col/828068dd62.webp"},{"n":"Bronze Mica Metallic","hex":"#4e4a43","p":0,"img":"img/col/cb43107338.webp"}]},{"name":"Fortuner 2.8 VRZ AT 4WD","fuel":"Diesel","price":241880,"rebate":11000,"cols":[{"n":"Attitude Black Mica","hex":"#030507","p":0,"img":"img/col/d8054f4c2d.webp"},{"n":"Super White II","hex":"#e3e4e0","p":0,"img":"img/col/b18598feec.webp"},{"n":"Silver Metallic","hex":"#9da2a4","p":0,"img":"img/col/3f7a786d72.webp"},{"n":"Medium Silver Metallic","hex":"#6a7376","p":0,"img":"img/col/0cbcbf0729.webp"},{"n":"Phantom Brown Metallic","hex":"#4a302e","p":0,"img":"img/col/828068dd62.webp"},{"n":"Super White II with Black Roof","hex":"#f2f2ee","p":1500,"img":"img/col/7f835db766.webp"},{"n":"Bronze Mica Metallic with Black Roof","hex":"#0b0d10","p":1500,"img":"img/col/6bedb87452.webp"}]}]},{"id":"hilux","name":"Hilux","type":"Pickup","url":"https://www.toyota.com.my/en/models/hilux.html","cut":"img/cut/hilux.webp","grades":[{"name":"Hilux Single Cab 2.4 MT 4WD","fuel":"Diesel","price":104880,"rebate":9000,"cols":[{"n":"Solid White","hex":"#d5d8cf","p":0,"img":"img/col/6f7382e367.webp"}]},{"name":"Hilux Double Cab 2.4E MT 4WD","fuel":"Diesel","price":117880,"rebate":14000,"cols":[{"n":"Bronze Mica Metallic","hex":"#4e4a43","p":0,"img":"img/col/153c8b6d6d.webp"},{"n":"Phantom Brown Metallic","hex":"#4a302e","p":0,"img":"img/col/ac5084b2b6.webp"},{"n":"Crimson Spark Red Metallic","hex":"#740013","p":0,"img":"img/col/d6794af8c3.webp"},{"n":"Attitude Black Mica","hex":"#030507","p":0,"img":"img/col/6a92b4a638.webp"},{"n":"Super White II","hex":"#e3e4e0","p":0,"img":"img/col/dbb077a5a7.webp"},{"n":"Medium Silver Metallic","hex":"#6a7376","p":0,"img":"img/col/9caffc57e9.webp"},{"n":"Silver Metallic","hex":"#9da2a4","p":0,"img":"img/col/21ede8c09a.webp"}]},{"name":"Hilux Double Cab 2.4E AT 4WD","fuel":"Diesel","price":119880,"rebate":14000,"cols":[{"n":"Bronze Mica Metallic","hex":"#4e4a43","p":0,"img":"img/col/153c8b6d6d.webp"},{"n":"Phantom Brown Metallic","hex":"#4a302e","p":0,"img":"img/col/ac5084b2b6.webp"},{"n":"Crimson Spark Red Metallic","hex":"#740013","p":0,"img":"img/col/d6794af8c3.webp"},{"n":"Attitude Black Mica","hex":"#030507","p":0,"img":"img/col/6a92b4a638.webp"},{"n":"Super White II","hex":"#e3e4e0","p":0,"img":"img/col/dbb077a5a7.webp"},{"n":"Medium Silver Metallic","hex":"#6a7376","p":0,"img":"img/col/9caffc57e9.webp"},{"n":"Silver Metallic","hex":"#9da2a4","p":0,"img":"img/col/21ede8c09a.webp"}]},{"name":"Hilux Double Cab 2.4V AT 4WD","fuel":"Diesel","price":149580,"rebate":14000,"cols":[{"n":"Bronze Mica Metallic","hex":"#4e4a43","p":0,"img":"img/col/153c8b6d6d.webp"},{"n":"Phantom Brown Metallic","hex":"#4a302e","p":0,"img":"img/col/ac5084b2b6.webp"},{"n":"Crimson Spark Red Metallic","hex":"#740013","p":0,"img":"img/col/d6794af8c3.webp"},{"n":"Attitude Black Mica","hex":"#030507","p":0,"img":"img/col/6a92b4a638.webp"},{"n":"Super White II","hex":"#e3e4e0","p":0,"img":"img/col/dbb077a5a7.webp"},{"n":"Medium Silver Metallic","hex":"#6a7376","p":0,"img":"img/col/9caffc57e9.webp"},{"n":"Silver Metallic","hex":"#9da2a4","p":0,"img":"img/col/21ede8c09a.webp"}]},{"name":"Hilux Double Cab 2.8 Rogue AT 4WD","fuel":"Diesel","price":163080,"rebate":14000,"cols":[{"n":"Bronze Mica Metallic","hex":"#4e4a43","p":0,"img":"img/col/153c8b6d6d.webp"},{"n":"Phantom Brown Metallic","hex":"#4a302e","p":0,"img":"img/col/ac5084b2b6.webp"},{"n":"Crimson Spark Red Metallic","hex":"#740013","p":0,"img":"img/col/d6794af8c3.webp"},{"n":"Attitude Black Mica","hex":"#030507","p":0,"img":"img/col/6a92b4a638.webp"},{"n":"Super White II","hex":"#e3e4e0","p":0,"img":"img/col/dbb077a5a7.webp"},{"n":"Medium Silver Metallic","hex":"#6a7376","p":0,"img":"img/col/9caffc57e9.webp"},{"n":"Silver Metallic","hex":"#9da2a4","p":0,"img":"img/col/21ede8c09a.webp"}]},{"name":"Hilux GR Sport","fuel":"Diesel","price":173280,"rebate":14000,"cols":[{"n":"Super White II","hex":"#e3e4e0","p":0,"img":"img/col/32a4330258.webp"},{"n":"Crimson Spark Red Metallic","hex":"#740013","p":0,"img":"img/col/149c41cc64.webp"},{"n":"Attitude Black Mica","hex":"#030507","p":0,"img":"img/col/2a8ee67d18.webp"}]},{"name":"Hilux D/CAB BEV","fuel":"EV","price":226300,"rebate":0,"cols":[{"n":"Ash","hex":"#50505a","p":0,"img":"img/col/9cdbcf2f63.webp"},{"n":"Platinum White Pearl","hex":"#fcfcfc","p":800,"img":"img/col/a024e52a35.webp"},{"n":"Super White 2","hex":"#e3e4e0","p":0,"img":"img/col/31fad78abb.webp"}]}]},{"id":"hiace","name":"Hiace","type":"Van","url":"https://www.toyota.com.my/en/models/hiace.html","cut":"img/cut/hiace.webp","grades":[{"name":"Hiace Panel Van 3.0 Turbo Diesel","fuel":"Diesel","price":127800,"rebate":0,"cols":[{"n":"Solid White","hex":"#d5d8cf","p":0,"img":"img/col/449754ec87.webp"}]}]},{"id":"hiace-slwb","name":"Hiace SLWB","type":"Van","url":"https://www.toyota.com.my/en/models/hiace-slwb.html","cut":"img/cut/hiace-slwb.webp","grades":[{"name":"Hiace SLWB 2.8 Turbo Diesel","fuel":"Diesel","price":172000,"rebate":0,"cols":[{"n":"Solid White","hex":"#d5d8cf","p":0,"img":""}]}]},{"id":"harrier","name":"Harrier","type":"SUV","url":"https://www.toyota.com.my/en/models/harrier-hybrid-electric.html","cut":"img/cut/harrier.webp","grades":[{"name":"Harrier 2.5 HEV","fuel":"HEV","price":289000,"rebate":0,"cols":[{"n":"Platinum White Pearl","hex":"#fcfcfc","p":800,"img":"img/col/6fdc4cada0.webp"},{"n":"Grey Metallic","hex":"#333538","p":0,"img":"img/col/c480f452a2.webp"},{"n":"Precious Black","hex":"#08080A","p":800,"img":"img/col/9d808e59f3.webp"}]}]},{"id":"bz4x","name":"bZ4X","type":"SUV","url":"https://www.toyota.com.my/en/models/bz4x.html","cut":"img/cut/bz4x.webp","grades":[{"name":"bZ4X","fuel":"EV","price":220000,"rebate":0,"cols":[{"n":"Precious Metal","hex":"#545656","p":0,"img":"img/col/8f0329cfd6.webp"},{"n":"Attitude Black MC.","hex":"#030507","p":0,"img":"img/col/82898817e4.webp"},{"n":"Platinum White Pearl MC.","hex":"#fcfcfc","p":800,"img":"img/col/ad5bfd4488.webp"},{"n":"Emotional Red 2","hex":"#740001","p":0,"img":"img/col/67021e4ffa.webp"},{"n":"DK. Blue MC.","hex":"#202649","p":0,"img":"img/col/76cef5386d.webp"}]}]},{"id":"urban-cruiser","name":"Urban Cruiser","type":"SUV","url":"https://www.toyota.com.my/en/models/urban-cruiser.html","cut":"img/cut/urban-cruiser.webp","grades":[{"name":"Urban Cruiser","fuel":"EV","price":198000,"rebate":0,"cols":[{"n":"Land Breeze Green","hex":"#656656","p":0,"img":"img/col/22487d6a0b.webp"},{"n":"Grandeur Grey","hex":"#88898d","p":0,"img":"img/col/07ab50ac0a.webp"},{"n":"Pearl Arctic White","hex":"#fbfbf9","p":0,"img":"img/col/8a52fefacd.webp"},{"n":"Pearl Bluish Black","hex":"#02252b","p":0,"img":"img/col/7e4d87fa6c.webp"}]}]},{"id":"alphard","name":"Alphard","type":"MPV","url":"https://www.toyota.com.my/en/models/alphard.html","cut":"img/cut/alphard.webp","grades":[{"name":"Alphard 2.4T Executive Lounge","fuel":"Petrol","price":548000,"rebate":0,"cols":[{"n":"Platinum White Pearl","hex":"#fcfcfc","p":0,"img":"img/col/52770a1f32.webp"},{"n":"Precious Metal","hex":"#545656","p":0,"img":"img/col/f86c349d4b.webp"},{"n":"Neutral Black","hex":"#020203","p":0,"img":"img/col/9ddb2a900a.webp"},{"n":"Precious Leo-Blond","hex":"#c7b2a1","p":0,"img":"img/col/f43ffac54c.webp"}]}]},{"id":"vellfire","name":"Vellfire","type":"MPV","url":"https://www.toyota.com.my/en/models/vellfire.html","cut":"img/cut/vellfire.webp","grades":[{"name":"Vellfire 2.5","fuel":"Petrol","price":448000,"rebate":0,"cols":[{"n":"Neutral Black","hex":"#020203","p":0,"img":"img/col/eefe11539a.webp"},{"n":"Precious Metal","hex":"#545656","p":0,"img":"img/col/c681abee7e.webp"},{"n":"Platinum White Pearl","hex":"#fcfcfc","p":0,"img":"img/col/2cf066789e.webp"}]},{"name":"Vellfire 2.5 HEV AT Executive Lounge","fuel":"HEV","price":549900,"rebate":0,"cols":[{"n":"Platinum White Pearl","hex":"#fcfcfc","p":0,"img":"img/col/dfb11cc529.webp"},{"n":"Neutral Black","hex":"#020203","p":0,"img":"img/col/993f63e2e7.webp"},{"n":"Precious Metal","hex":"#545656","p":0,"img":"img/col/f7b4c3f4f2.webp"}]}]},{"id":"gr86","name":"GR86","type":"Coupe","url":"https://www.toyota.com.my/en/models/gr86.html","cut":"img/col/c6a787e1b0.webp","grades":[{"name":"GR86 M/T","fuel":"Petrol","price":296000,"rebate":0,"cols":[{"n":"Ignition Red","hex":"#e11e26","p":0,"img":"img/col/c6a787e1b0.webp"},{"n":"Crystal White Pearl","hex":"#f5f5f5","p":0,"img":"img/col/56b7864cd6.webp"},{"n":"Crystal Black Silica","hex":"#101010","p":0,"img":"img/col/th-593f0c9d45.webp","src":"th"},{"n":"Magnetite Gray Metallic","hex":"#5f5d50","p":0,"img":"img/col/th-4f32884e92.webp","src":"th"}]},{"name":"GR86 A/T","fuel":"Petrol","price":306000,"rebate":0,"cols":[{"n":"Ignition Red","hex":"#e11e26","p":0,"img":"img/col/c6a787e1b0.webp"},{"n":"Crystal White Pearl","hex":"#f5f5f5","p":0,"img":"img/col/56b7864cd6.webp"},{"n":"Crystal Black Silica","hex":"#101010","p":0,"img":"img/col/th-593f0c9d45.webp","src":"th"},{"n":"Magnetite Gray Metallic","hex":"#5f5d50","p":0,"img":"img/col/th-4f32884e92.webp","src":"th"}]}]},{"id":"gr-yaris","name":"GR Yaris","type":"Hatchback","url":"https://www.toyota.com.my/en/models/gr-yaris.html","cut":"img/cut/gr-yaris.webp","grades":[{"name":"GR Yaris M/T","fuel":"Petrol","price":315600,"rebate":0,"cols":[{"n":"Platinum White Pearl Mica","hex":"#f2f2ee","p":0,"img":"img/col/th-8960135b6a.webp","src":"th","illus":true},{"n":"Emotional Red 2","hex":"#a4120f","p":0,"img":"img/col/th-3b6bccb18c.webp","src":"th"},{"n":"Precious Black","hex":"#0b0d10","p":0,"img":"img/col/th-d0aabf92df.webp","src":"th"},{"n":"Precious Metal","hex":"#cccccc","p":0,"img":"img/col/th-4caff9fa1a.webp","src":"th"}]},{"name":"GR Yaris A/T","fuel":"Petrol","price":325600,"rebate":0,"cols":[{"n":"Platinum White Pearl Mica","hex":"#f2f2ee","p":0,"img":"img/col/th-8960135b6a.webp","src":"th","illus":true},{"n":"Emotional Red 2","hex":"#a4120f","p":0,"img":"img/col/th-3b6bccb18c.webp","src":"th"},{"n":"Precious Black","hex":"#0b0d10","p":0,"img":"img/col/th-d0aabf92df.webp","src":"th"},{"n":"Precious Metal","hex":"#cccccc","p":0,"img":"img/col/th-4caff9fa1a.webp","src":"th"}]}]},{"id":"gr-corolla","name":"GR Corolla","type":"Hatchback","url":"https://www.toyota.com.my/en/models/gr-corolla.html","cut":"img/cut/gr-corolla.webp","grades":[{"name":"GR Corolla M/T","fuel":"Petrol","price":368950,"rebate":0,"cols":[{"n":"Precious Metal","hex":"#cccccc","p":0,"img":"img/col/th-1380cae14c.webp","src":"th"},{"n":"Super White 2","hex":"#f2f2ee","p":0,"img":"img/col/th-de98863223.webp","src":"th"},{"n":"Emotional Red 2","hex":"#a4120f","p":0,"img":"img/col/th-edfb5e2419.webp","src":"th"},{"n":"Black","hex":"#0b0d10","p":0,"img":"img/col/th-7f08920220.webp","src":"th"}]},{"name":"GR Corolla A/T","fuel":"Petrol","price":378950,"rebate":0,"cols":[{"n":"Precious Metal","hex":"#cccccc","p":0,"img":"img/col/th-1380cae14c.webp","src":"th"},{"n":"Super White 2","hex":"#f2f2ee","p":0,"img":"img/col/th-de98863223.webp","src":"th"},{"n":"Emotional Red 2","hex":"#a4120f","p":0,"img":"img/col/th-edfb5e2419.webp","src":"th"},{"n":"Black","hex":"#0b0d10","p":0,"img":"img/col/th-7f08920220.webp","src":"th"}]}]}]};

diff --git a/index.html b/index.html
@@ -22,7 +22,7 @@
 <link rel="preconnect" href="https://fonts.googleapis.com">
 <link rel="preconnect" href="https://fonts.gstatic.com" crossorigin>
 <link href="https://fonts.googleapis.com/css2?family=Inter:wght@400;500;600;700;800;900&display=swap" rel="stylesheet">
-<link rel="stylesheet" href="style.css?v=17">
+<link rel="stylesheet" href="style.css?v=18">
 <link rel="stylesheet" href="theme-stripe.css?v=2">
 <script src="site-config.js?v=1795568987"></script>
 <script>(function(){var t=window.SITE_THEME||"asal";try{var q=new URLSearchParams(location.search).get("gaya");if(q==="stripe"||q==="asal")sessionStorage.setItem("gaya",q);t=sessionStorage.getItem("gaya")||t;}catch(e){}if(t==="stripe")document.documentElement.classList.add("theme-stripe");})();</script>
@@ -360,7 +360,7 @@
   <svg viewBox="0 0 24 24" aria-hidden="true"><path d="M12 2a10 10 0 0 0-8.6 15.1L2 22l5-1.3A10 10 0 1 0 12 2Zm4.5 12.1c-.2-.1-1.5-.7-1.7-.8s-.4-.1-.6.1-.7.8-.8 1-.3.2-.5.1a6.7 6.7 0 0 1-3.3-2.9c-.3-.4.3-.4.7-1.3.1-.2 0-.3 0-.4l-.8-1.8c-.2-.5-.4-.4-.6-.4h-.5a1 1 0 0 0-.7.3 3 3 0 0 0-.9 2.2 5.2 5.2 0 0 0 1.1 2.7 11.8 11.8 0 0 0 4.5 4c1.7.7 2.3.8 3.2.6.5-.1 1.5-.6 1.7-1.2s.2-1.1.1-1.2-.2-.2-.5-.3Z"/></svg>
 </a>
 
-<script src="data.js?v=3"></script>
+<script src="data.js?v=4"></script>
 <script src="app.js?v=17"></script>
 <script src="theme-stripe.js?v=1"></script>
 <script src="https://cdnjs.cloudflare.com/ajax/libs/gsap/3.12.5/gsap.min.js" defer></script>

diff --git a/en/index.html b/en/index.html
@@ -22,7 +22,7 @@
 <link rel="preconnect" href="https://fonts.googleapis.com">
 <link rel="preconnect" href="https://fonts.gstatic.com" crossorigin>
 <link href="https://fonts.googleapis.com/css2?family=Inter:wght@400;500;600;700;800;900&display=swap" rel="stylesheet">
-<link rel="stylesheet" href="../style.css?v=17">
+<link rel="stylesheet" href="../style.css?v=18">
 <link rel="stylesheet" href="../theme-stripe.css?v=2">
 <script src="../site-config.js?v=1795568987"></script>
 <script>(function(){var t=window.SITE_THEME||"asal";try{var q=new URLSearchParams(location.search).get("gaya");if(q==="stripe"||q==="asal")sessionStorage.setItem("gaya",q);t=sessionStorage.getItem("gaya")||t;}catch(e){}if(t==="stripe")document.documentElement.classList.add("theme-stripe");})();</script>
@@ -312,7 +312,7 @@
 </a>
 
 <script>window.SITE_BASE = "../";</script>
-<script src="../data.js?v=3"></script>
+<script src="../data.js?v=4"></script>
 <script src="../app.js?v=17"></script>
 <script src="../theme-stripe.js?v=1"></script>
 <script src="https://cdnjs.cloudflare.com/ajax/libs/gsap/3.12.5/gsap.min.js" defer></script>

diff --git a/style.css b/style.css
@@ -313,7 +313,7 @@ html.theme-stripe .hero-bg{display:none}
 @keyframes mq{to{transform:translateX(-50%)}}
 .mq-item{display:flex;flex-direction:column;align-items:center;justify-content:flex-end;gap:6px;margin-right:14px;padding:10px 16px 9px;min-width:150px;height:96px;border-radius:14px;background:#fff;transition:transform .25s}
 .mq-item:hover{transform:translateY(-3px)}
-.mq-item img{height:52px;width:auto;max-width:150px;object-fit:contain}
+.mq-item img{display:block;height:54px;width:150px;object-fit:contain;object-position:50% 100%}
 .mq-item span{font-size:13px;font-weight:700;color:var(--ink);white-space:nowrap}
 @media (prefers-reduced-motion:reduce){.marquee-track{animation:none}.marquee{overflow-x:auto}}
 
